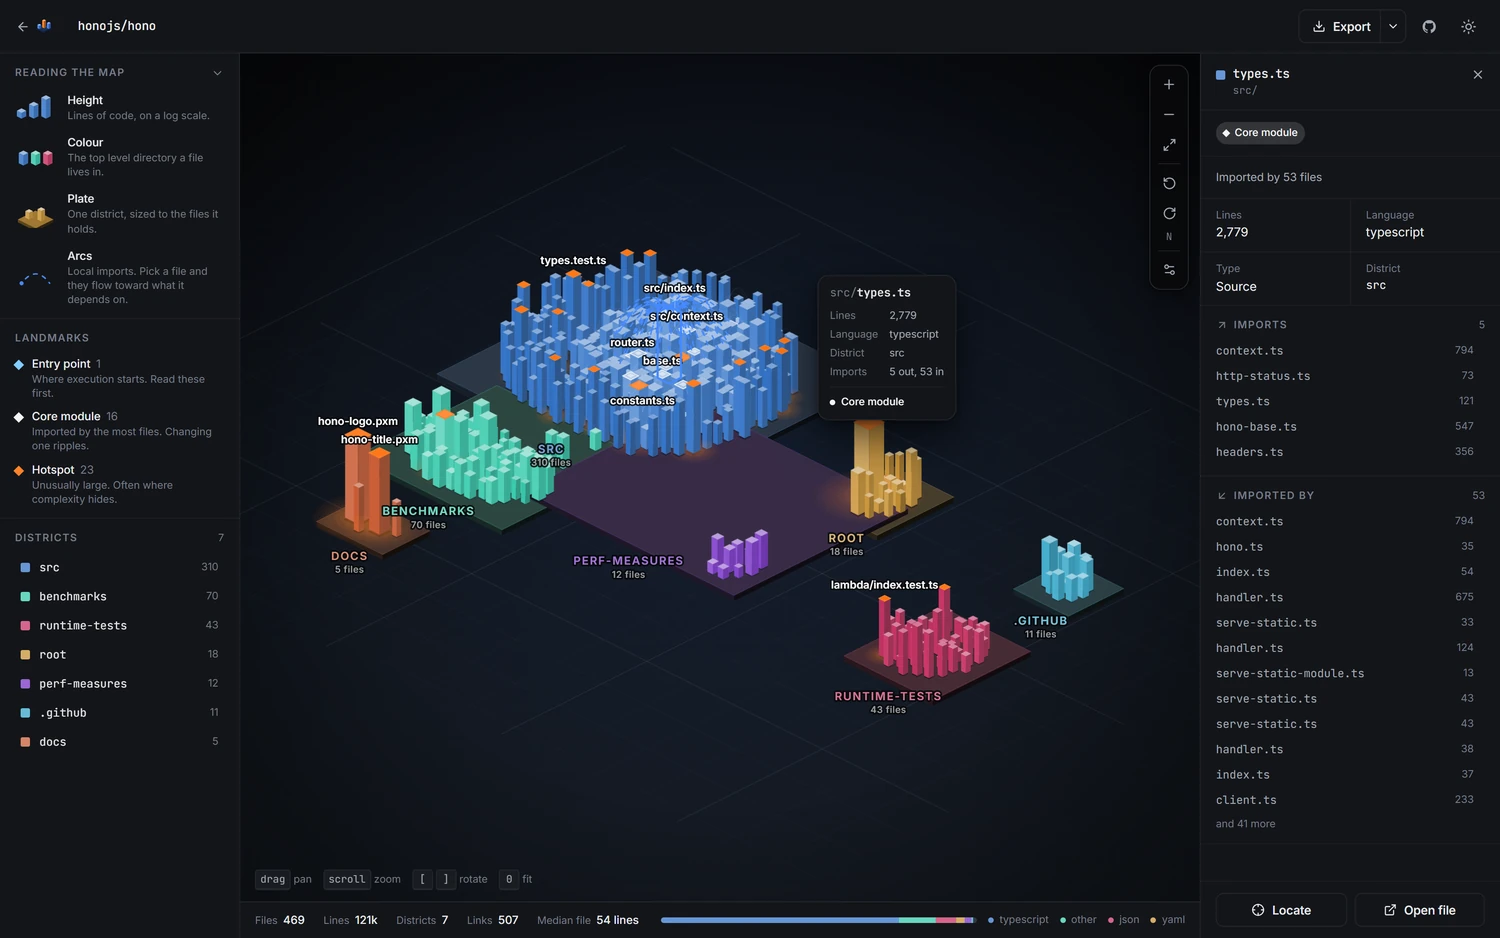
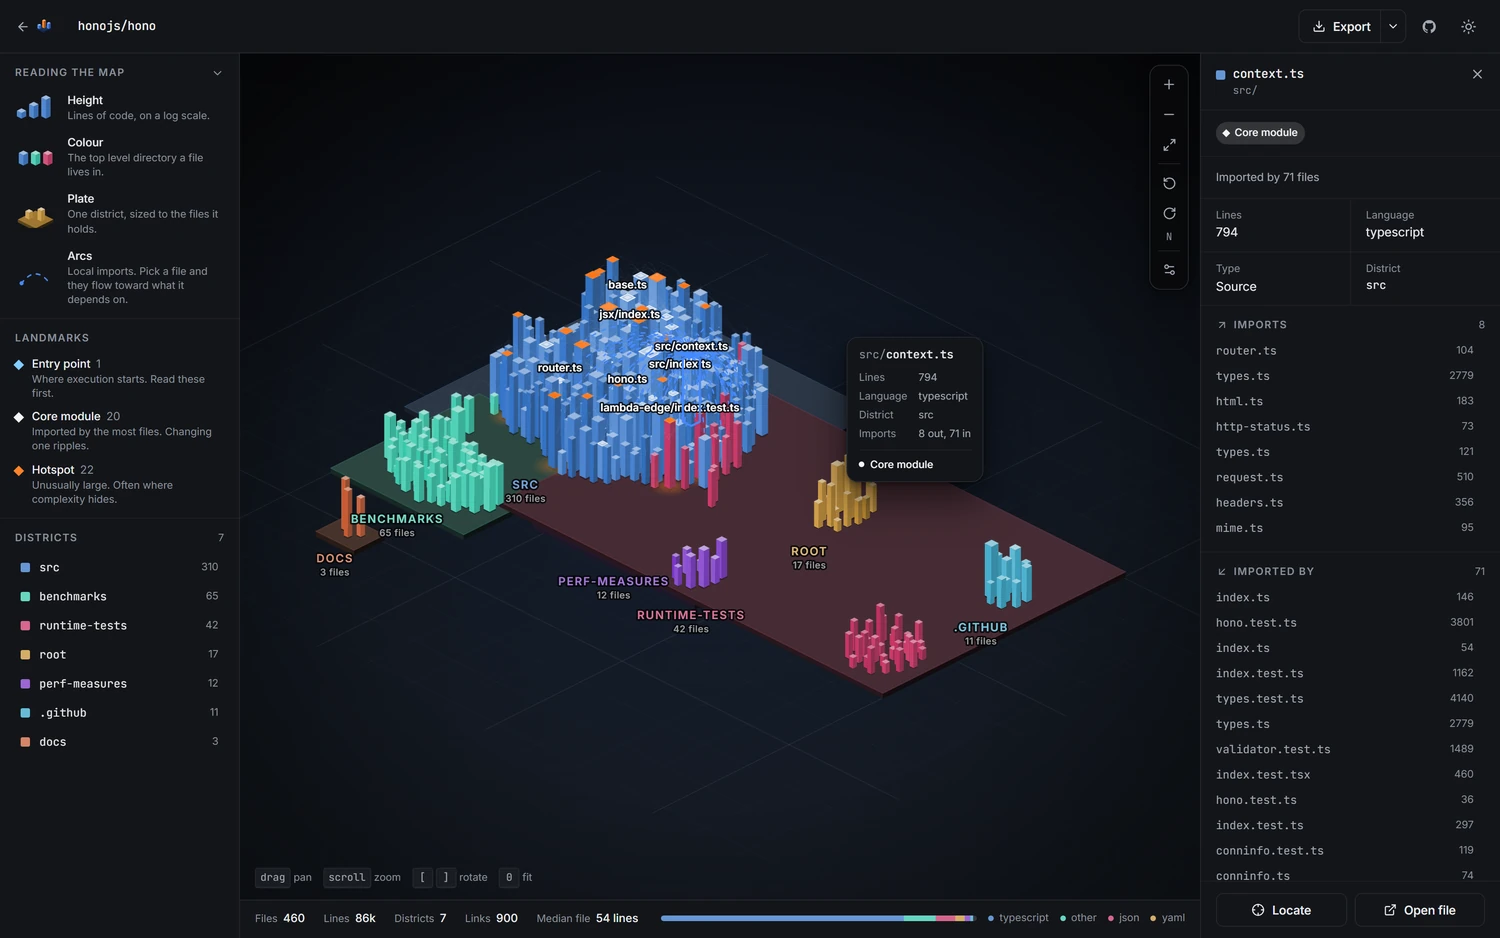
docs: refresh the README images for the new maps
The screenshots were taken before ingestion changed, so they showed
hono's Pixelmator logo standing as a 19,700 line landmark and drizzle's
core modules collapsed to the handful the arc budget happened to reach.

Caption follows the picture: the focus example is now src/context.ts,
imported by 71 files rather than src/types.ts by 53.

diff --git a/README.md b/README.md
@@ -46,7 +46,7 @@ Pick a building and the map answers a different question: what does this file to
 <div align="center">
   <img alt="A file selected in Atlas, its dependency arcs highlighted and its imports listed in a side panel" src="docs/focus-dark.webp" width="900">
   <br>
-  <sub><code>src/types.ts</code> in Hono, imported by 53 files. Every arc runs from the importing file toward what it imports, so the flow shows you the direction.</sub>
+  <sub><code>src/context.ts</code> in Hono, imported by 71 files. Every arc runs from the importing file toward what it imports, so the flow shows you the direction.</sub>
 </div>
 
 ---
